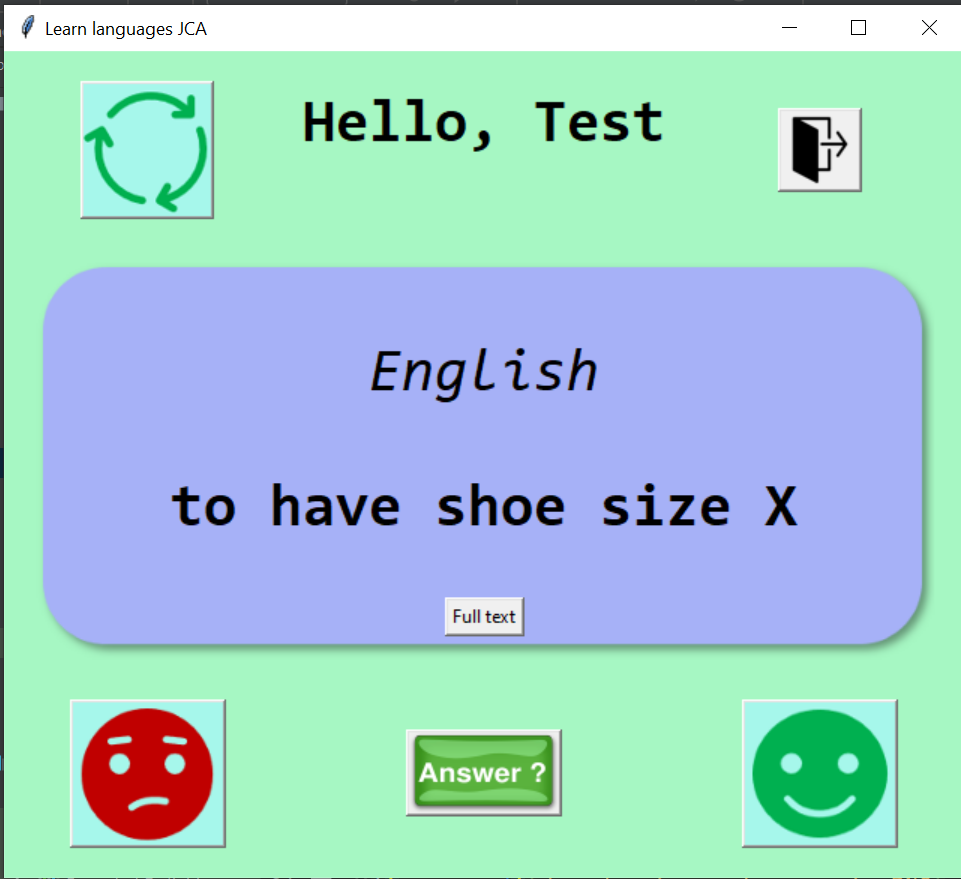
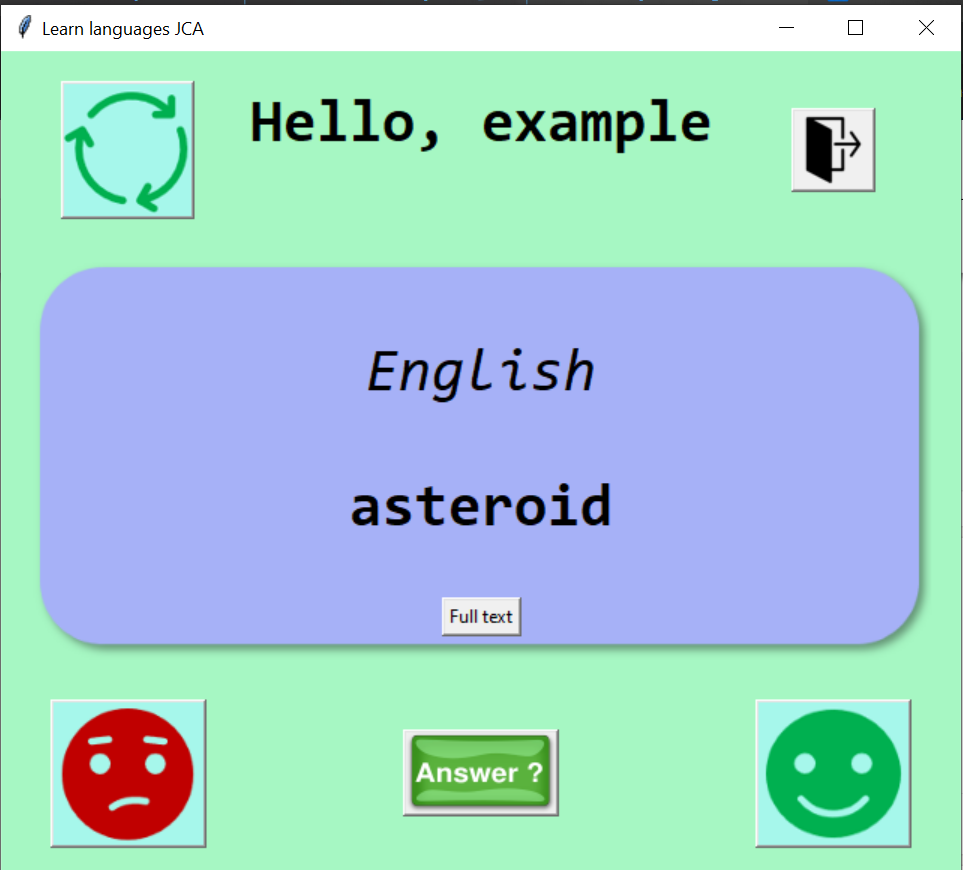
README included.

diff --git a/Flash Cards/README.md b/Flash Cards/README.md
@@ -1,0 +1,45 @@
+# Flash Cards Spanish-English
+This program may help you in your path to learn spanish.  
+Note that your user will be used to save your already-known words and the ones to be learnt.
+
+## Instructions
+- Create a Fork of the repository (you can access all projects).
+- Open your favourite IDE (I use [PyCharm](https://www.jetbrains.com/pycharm/)).
+- Check the ***[requirements.txt](https://github.com/JuanCarcedo/jca-python-projects/blob/main/requirements.txt)*** file.  
+  - For this project you will need:
+    + tkinter.
+
+### Note: 
+All data is saved in CSV files. Feel free to view them in:  
+- ```/data/yourUser_es_en.csv``` to check all words.
+- ```/data/yourUser_es_en_correct.csv``` to check the ones you did guess right.  
+
+Please do not modify the names of these files.
+
+## How to use
+1) Run the file ```main.py```.
+2) Log in into the system. If your user does not exist, the program will create it.
+3) Click the refresh button to start the game.
+4) Click "Full text" if you cannot see the full word (or definition).
+5) To know if you guessed right, click "Answer".
+6) Select "Happy face" if you were right, "Sad face" if not.
+   - Do not cheat!
+7) Whenever you want to exit please click the door button.  
+Enjoy!
+
+## Example of output
+Log in page:  
+![Initial](readme_images/log_in.PNG)
+
+Main page:  
+![main_page](readme_images/prog_main.PNG)
+
+Word to guess:
+![guess](readme_images/spanish_word.PNG)
+
+Answer:
+![answer](readme_images/answer.PNG)
+
+## Author and Licence
+**[Juan Carcedo](https://github.com/JuanCarcedo)**  
+2022 Copyright © - Licence [MIT](https://github.com/JuanCarcedo/jca-python-projects/blob/main/LICENSE.txt)
